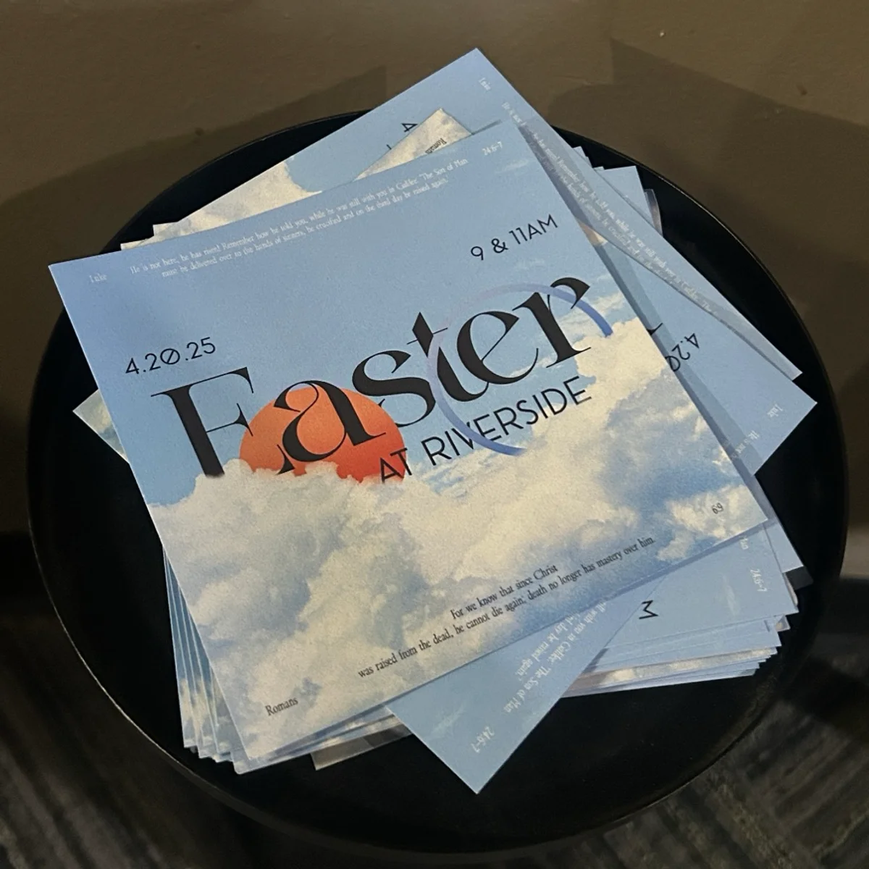
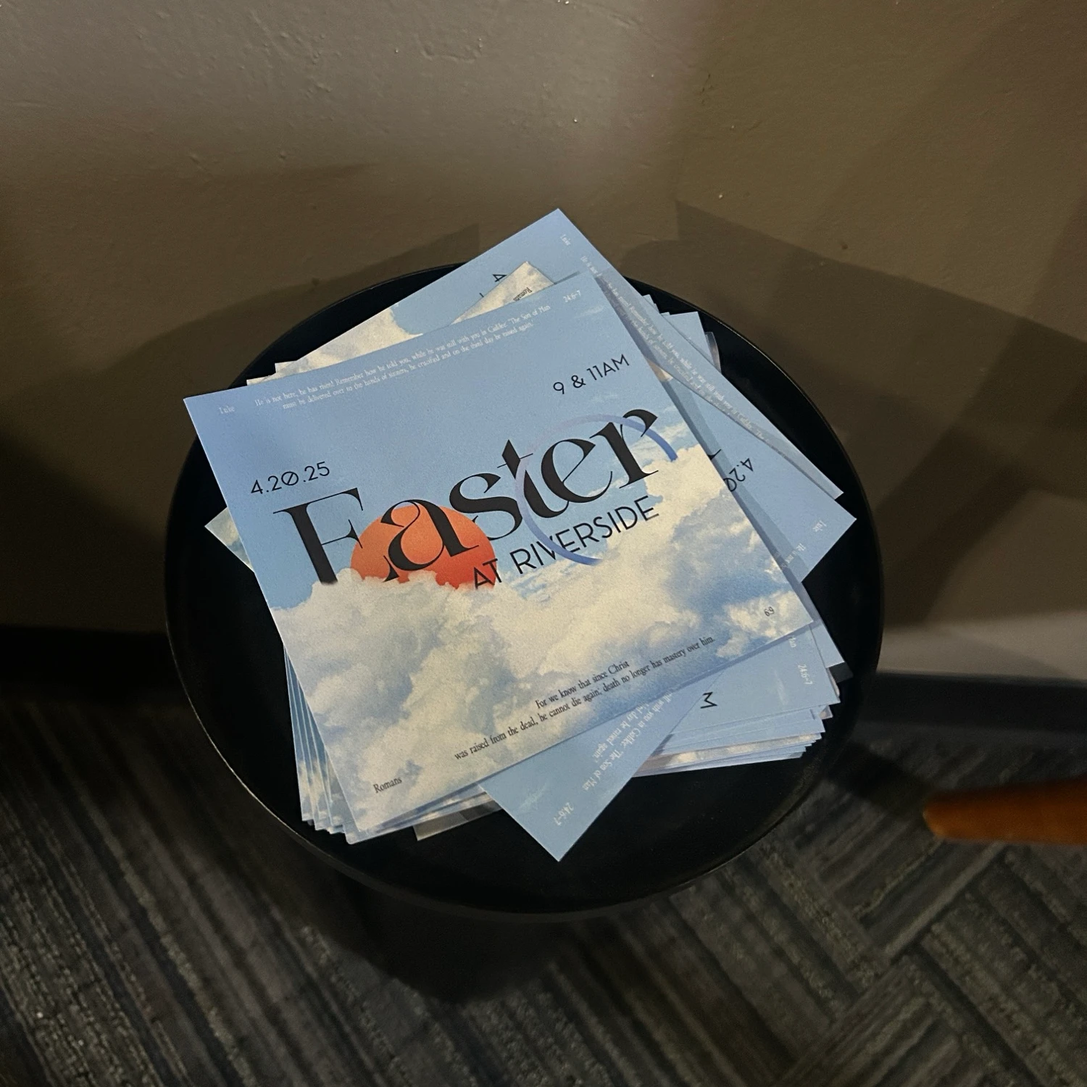
Fuse strip swapped; Oasis film larger; Easter cards zoomed out at native pixels; Sandcastles stacked on the right
Fuse: banner left, laptop photo right (CSS order). Oasis: film 813x457 beside a 391px write-up. Easter: invite cards re-cropped wider from the 1500px original, no resampling. Sandcastles: write-up split into seven paragraphs on the left, spread to end level with the stack; bookmark uncropped and stage photo smaller on the right under the hero.

diff --git a/i18n.js b/i18n.js
@@ -198,7 +198,7 @@
       'proj.sandcastles.desc': 'Sermon series identity applied across stage screens, social, and print.',
       'proj.sandcastles.type': 'Sermon Series Identity',
       'proj.sandcastles.role': 'Graphic Designer',
-      'proj.sandcastles.body': "Sandcastles is the identity for a summer in the Psalms: all 150, ten a week for fifteen weeks. The brief arrived as just a couple of sentences for me to build off of.\n\nSandcastles is a word about kids at a beach, and the Psalms are not light reading. The job was a playfulness that still held the weight: a sandcastle under a low sun, built on the one thing everybody knows the tide is coming for. It took many collage versions and more typefaces than I'd like to admit, narrowed as often by commercial licensing as by tone. The wordmark changed before it shipped: the creative director swapped the brush script for serif capitals.\n\nFrom there it had to hold everywhere it went: a stage screen above a full auditorium, thumbnails and social posts, printed posters and handouts, a bookmark two inches wide. How much each one says depends on how long anyone actually looks at it. On the screen it's the wordmark and not much else. On the bookmark, the one piece someone would open every day for three months, it's the whole fifteen-week schedule.",
+      'proj.sandcastles.body': "Sandcastles is the identity for a summer in the Psalms: all 150, ten a week for fifteen weeks.\n\nThe brief arrived as just a couple of sentences for me to build off of.\n\nSandcastles is a word about kids at a beach, and the Psalms are not light reading. The job was a playfulness that still held the weight: a sandcastle under a low sun, built on the one thing everybody knows the tide is coming for.\n\nIt took many collage versions and more typefaces than I'd like to admit, narrowed as often by commercial licensing as by tone. The wordmark changed before it shipped: the creative director swapped the brush script for serif capitals.\n\nFrom there it had to hold everywhere it went: a stage screen above a full auditorium, thumbnails and social posts, printed posters and handouts, a bookmark two inches wide.\n\nHow much each one says depends on how long anyone actually looks at it. On the screen it's the wordmark and not much else.\n\nOn the bookmark, the one piece someone would open every day for three months, it's the whole fifteen-week schedule.",
       'proj.sandcastles.alt.1': "The Sandcastles graphic: a sandcastle collage under an orange sun on teal, with 'Sandcastles' in a white brush script and three Psalms set around it.",
       'proj.sandcastles.alt.2': "The printed Summer Reading Plan bookmark, using the same artwork, resting in an open Bible beside a coffee mug and a candle.",
       'proj.sandcastles.alt.3': "The Sandcastles artwork on the church auditorium's main screen during a service, with the congregation seated in front of it.",
@@ -482,7 +482,7 @@
       'proj.sandcastles.desc': 'Identidad de serie aplicada a pantallas de escenario, redes e impresos.',
       'proj.sandcastles.type': 'Identidad de serie de sermones',
       'proj.sandcastles.role': 'Diseñador gráfico',
-      'proj.sandcastles.body': "Sandcastles es la identidad de un verano en los Salmos: los 150, diez por semana durante quince semanas. El encargo llegó como apenas un par de frases a partir de las cuales construir.\n\nSandcastles es una palabra de niños en la playa, y los Salmos no son lectura ligera. El trabajo era un juego que sostuviera el peso: un castillo de arena bajo un sol bajo, levantado sobre lo único que todos sabemos que la marea se va a llevar. Costó muchas versiones del collage y más tipografías de las que me gustaría reconocer, descartadas tanto por la licencia comercial como por el tono. El logotipo cambió antes de salir: el director creativo sustituyó la letra de pincel por mayúsculas serif.\n\nA partir de ahí tenía que aguantar allí donde fuera: una pantalla de escenario sobre un auditorio lleno, miniaturas y publicaciones en redes, carteles y folletos impresos, un marcapáginas de cinco centímetros. Cuánto dice cada uno depende del tiempo que alguien vaya a mirarlo. En pantalla es el logotipo y poco más. En el marcapáginas, lo único que alguien iba a abrir cada día durante tres meses, es el calendario entero de quince semanas.",
+      'proj.sandcastles.body': "Sandcastles es la identidad de un verano en los Salmos: los 150, diez por semana durante quince semanas.\n\nEl encargo llegó como apenas un par de frases a partir de las cuales construir.\n\nSandcastles es una palabra de niños en la playa, y los Salmos no son lectura ligera. El trabajo era un juego que sostuviera el peso: un castillo de arena bajo un sol bajo, levantado sobre lo único que todos sabemos que la marea se va a llevar.\n\nCostó muchas versiones del collage y más tipografías de las que me gustaría reconocer, descartadas tanto por la licencia comercial como por el tono. El logotipo cambió antes de salir: el director creativo sustituyó la letra de pincel por mayúsculas serif.\n\nA partir de ahí tenía que aguantar allí donde fuera: una pantalla de escenario sobre un auditorio lleno, miniaturas y publicaciones en redes, carteles y folletos impresos, un marcapáginas de cinco centímetros.\n\nCuánto dice cada uno depende del tiempo que alguien vaya a mirarlo. En pantalla es el logotipo y poco más.\n\nEn el marcapáginas, lo único que alguien iba a abrir cada día durante tres meses, es el calendario entero de quince semanas.",
       'proj.sandcastles.alt.1': 'La gráfica de Sandcastles: un collage de castillo de arena bajo un sol naranja sobre turquesa, con «Sandcastles» en letra de pincel blanca y tres Salmos alrededor.',
       'proj.sandcastles.alt.2': 'El marcapáginas impreso del plan de lectura de verano, con la misma obra, sobre una Biblia abierta junto a una taza de café y una vela.',
       'proj.sandcastles.alt.3': 'La obra de Sandcastles en la pantalla principal del auditorio de la iglesia durante un servicio, con la congregación sentada delante.',
@@ -764,7 +764,7 @@
       'proj.sandcastles.desc': '舞台スクリーン、SNS、印刷物に展開したシリーズのアイデンティティ。',
       'proj.sandcastles.type': '説教シリーズのアイデンティティ',
       'proj.sandcastles.role': 'グラフィックデザイナー',
-      'proj.sandcastles.body': 'Sandcastlesは、詩篇で過ごす夏のためのアイデンティティです。150篇すべてを、週に10篇ずつ、15週で読みます。依頼は、そこから組み立てるための数行の文章として届いただけでした。\n\nSandcastlesは浜辺の子どもの言葉で、詩篇は軽い読みものではありません。必要だったのは、重さを支えられる遊び心でした。低い陽のもとの砂の城を、潮が必ず連れていくと誰もが知っているものの上に立てています。コラージュは何度も作り直し、書体も認めたくないほど試しました。調子の合う合わないと同じくらい、商用ライセンスの有無でふるいにかけながら。ロゴタイプは世に出る前に変わりました。クリエイティブディレクターが、ブラシスクリプトをセリフ体の大文字に差し替えています。\n\nそこから先は、置かれる先すべてで成立する必要がありました。満席の会堂を見下ろす舞台スクリーン、サムネイルやSNSの投稿、印刷されたポスターや配布物、幅5センチのしおり。それぞれがどれだけ語るかは、実際にどれだけの時間見てもらえるかで決まります。スクリーンではロゴタイプとわずかな要素だけ。三か月のあいだ毎日開かれる唯一のものであるしおりには、15週分の予定がすべて入っています。',
+      'proj.sandcastles.body': 'Sandcastlesは、詩篇で過ごす夏のためのアイデンティティです。150篇すべてを、週に10篇ずつ、15週で読みます。\n\n依頼は、そこから組み立てるための数行の文章として届いただけでした。\n\nSandcastlesは浜辺の子どもの言葉で、詩篇は軽い読みものではありません。必要だったのは、重さを支えられる遊び心でした。低い陽のもとの砂の城を、潮が必ず連れていくと誰もが知っているものの上に立てています。\n\nコラージュは何度も作り直し、書体も認めたくないほど試しました。調子の合う合わないと同じくらい、商用ライセンスの有無でふるいにかけながら。ロゴタイプは世に出る前に変わりました。クリエイティブディレクターが、ブラシスクリプトをセリフ体の大文字に差し替えています。\n\nそこから先は、置かれる先すべてで成立する必要がありました。満席の会堂を見下ろす舞台スクリーン、サムネイルやSNSの投稿、印刷されたポスターや配布物、幅5センチのしおり。\n\nそれぞれがどれだけ語るかは、実際にどれだけの時間見てもらえるかで決まります。スクリーンではロゴタイプとわずかな要素だけ。\n\n三か月のあいだ毎日開かれる唯一のものであるしおりには、15週分の予定がすべて入っています。',
       'proj.sandcastles.alt.1': 'Sandcastlesのグラフィック。ティール地にオレンジの太陽と砂の城のコラージュ、白いブラシスクリプトの「Sandcastles」と、その周囲に配置された三つの詩篇。',
       'proj.sandcastles.alt.2': '同じアートワークを使った夏の読書プランのしおり。開いた聖書の上に置かれ、傍らにコーヒーカップとキャンドルがある。',
       'proj.sandcastles.alt.3': '礼拝中、教会の会堂のメインスクリーンに映し出されたSandcastlesのアートワークと、その前に座る会衆。',
@@ -1046,7 +1046,7 @@
       'proj.sandcastles.desc': 'Identità di serie applicata a schermi da palco, social e stampa.',
       'proj.sandcastles.type': 'Identità per serie di sermoni',
       'proj.sandcastles.role': 'Graphic designer',
-      'proj.sandcastles.body': "Sandcastles \u00E8 l\u2019identit\u00E0 di un\u2019estate nei Salmi: tutti e 150, dieci a settimana per quindici settimane. Il brief \u00E8 arrivato come un paio di frasi appena, da cui partire.\n\nSandcastles \u00E8 una parola da bambini in spiaggia, e i Salmi non sono una lettura leggera. Serviva una leggerezza che reggesse il peso: un castello di sabbia sotto un sole basso, costruito sull\u2019unica cosa che tutti sanno che la marea si porter\u00E0 via. Sono servite molte versioni del collage e pi\u00F9 caratteri di quanti mi vada di ammettere, scartati tanto per la licenza commerciale quanto per il tono. Il logotipo \u00E8 cambiato prima di uscire: il direttore creativo ha sostituito lo script a pennello con maiuscole serif.\n\nDa l\u00EC doveva reggere ovunque finisse: uno schermo da palco sopra un auditorium pieno, miniature e post social, manifesti e volantini stampati, un segnalibro largo cinque centimetri. Quanto dice ciascuno dipende da quanto tempo qualcuno ci passa davvero. Sullo schermo c\u2019\u00E8 il logotipo e poco altro. Sul segnalibro, l\u2019unico pezzo che qualcuno avrebbe aperto ogni giorno per tre mesi, c\u2019\u00E8 tutto il calendario di quindici settimane.",
+      'proj.sandcastles.body': "Sandcastles \u00E8 l\u2019identit\u00E0 di un\u2019estate nei Salmi: tutti e 150, dieci a settimana per quindici settimane.\n\nIl brief \u00E8 arrivato come un paio di frasi appena, da cui partire.\n\nSandcastles \u00E8 una parola da bambini in spiaggia, e i Salmi non sono una lettura leggera. Serviva una leggerezza che reggesse il peso: un castello di sabbia sotto un sole basso, costruito sull\u2019unica cosa che tutti sanno che la marea si porter\u00E0 via.\n\nSono servite molte versioni del collage e pi\u00F9 caratteri di quanti mi vada di ammettere, scartati tanto per la licenza commerciale quanto per il tono. Il logotipo \u00E8 cambiato prima di uscire: il direttore creativo ha sostituito lo script a pennello con maiuscole serif.\n\nDa l\u00EC doveva reggere ovunque finisse: uno schermo da palco sopra un auditorium pieno, miniature e post social, manifesti e volantini stampati, un segnalibro largo cinque centimetri.\n\nQuanto dice ciascuno dipende da quanto tempo qualcuno ci passa davvero. Sullo schermo c\u2019\u00E8 il logotipo e poco altro.\n\nSul segnalibro, l\u2019unico pezzo che qualcuno avrebbe aperto ogni giorno per tre mesi, c\u2019\u00E8 tutto il calendario di quindici settimane.",
       'proj.sandcastles.alt.1': 'La grafica di Sandcastles: un collage con castello di sabbia sotto un sole arancione su fondo turchese, con \u201CSandcastles\u201D in uno script a pennello bianco e tre Salmi disposti intorno.',
       'proj.sandcastles.alt.2': 'Il segnalibro stampato del piano di lettura estivo, con lo stesso artwork, appoggiato su una Bibbia aperta accanto a una tazza di caffè e una candela.',
       'proj.sandcastles.alt.3': 'L\u2019artwork di Sandcastles sullo schermo principale dell\u2019auditorium della chiesa durante un servizio, con l\u2019assemblea seduta davanti.',

diff --git a/index.html b/index.html
@@ -176,7 +176,7 @@
           "@type": "CreativeWork",
           "name": "Sandcastles",
           "about": "Sermon series identity applied across stage screens, social and print.",
-          "description": "Sandcastles is the identity for a summer in the Psalms: all 150, ten a week for fifteen weeks. The brief arrived as just a couple of sentences for me to build off of.\n\nSandcastles is a word about kids at a beach, and the Psalms are not light reading. The job was a playfulness that still held the weight: a sandcastle under a low sun, built on the one thing everybody knows the tide is coming for. It took many collage versions and more typefaces than I'd like to admit, narrowed as often by commercial licensing as by tone. The wordmark changed before it shipped: the creative director swapped the brush script for serif capitals.\n\nFrom there it had to hold everywhere it went: a stage screen above a full auditorium, thumbnails and social posts, printed posters and handouts, a bookmark two inches wide. How much each one says depends on how long anyone actually looks at it. On the screen it's the wordmark and not much else. On the bookmark, the one piece someone would open every day for three months, it's the whole fifteen-week schedule.",
+          "description": "Sandcastles is the identity for a summer in the Psalms: all 150, ten a week for fifteen weeks.\n\nThe brief arrived as just a couple of sentences for me to build off of.\n\nSandcastles is a word about kids at a beach, and the Psalms are not light reading. The job was a playfulness that still held the weight: a sandcastle under a low sun, built on the one thing everybody knows the tide is coming for.\n\nIt took many collage versions and more typefaces than I'd like to admit, narrowed as often by commercial licensing as by tone. The wordmark changed before it shipped: the creative director swapped the brush script for serif capitals.\n\nFrom there it had to hold everywhere it went: a stage screen above a full auditorium, thumbnails and social posts, printed posters and handouts, a bookmark two inches wide.\n\nHow much each one says depends on how long anyone actually looks at it. On the screen it's the wordmark and not much else.\n\nOn the bookmark, the one piece someone would open every day for three months, it's the whole fifteen-week schedule.",
           "creator": {
             "@id": "https://jackmurraydesign.com/#jack"
           },
@@ -594,9 +594,13 @@
           <span class="gallery-fallback-title">SANDCASTLES</span>
           <span class="gallery-fallback-desc">Sermon series identity applied across stage screens, social, and print.</span>
         </a>
-        <p class="gallery-fallback-body">Sandcastles is the identity for a summer in the Psalms: all 150, ten a week for fifteen weeks. The brief arrived as just a couple of sentences for me to build off of.</p>
-        <p class="gallery-fallback-body">Sandcastles is a word about kids at a beach, and the Psalms are not light reading. The job was a playfulness that still held the weight: a sandcastle under a low sun, built on the one thing everybody knows the tide is coming for. It took many collage versions and more typefaces than I'd like to admit, narrowed as often by commercial licensing as by tone. The wordmark changed before it shipped: the creative director swapped the brush script for serif capitals.</p>
-        <p class="gallery-fallback-body">From there it had to hold everywhere it went: a stage screen above a full auditorium, thumbnails and social posts, printed posters and handouts, a bookmark two inches wide. How much each one says depends on how long anyone actually looks at it. On the screen it's the wordmark and not much else. On the bookmark, the one piece someone would open every day for three months, it's the whole fifteen-week schedule.</p>
+        <p class="gallery-fallback-body">Sandcastles is the identity for a summer in the Psalms: all 150, ten a week for fifteen weeks.</p>
+        <p class="gallery-fallback-body">The brief arrived as just a couple of sentences for me to build off of.</p>
+        <p class="gallery-fallback-body">Sandcastles is a word about kids at a beach, and the Psalms are not light reading. The job was a playfulness that still held the weight: a sandcastle under a low sun, built on the one thing everybody knows the tide is coming for.</p>
+        <p class="gallery-fallback-body">It took many collage versions and more typefaces than I'd like to admit, narrowed as often by commercial licensing as by tone. The wordmark changed before it shipped: the creative director swapped the brush script for serif capitals.</p>
+        <p class="gallery-fallback-body">From there it had to hold everywhere it went: a stage screen above a full auditorium, thumbnails and social posts, printed posters and handouts, a bookmark two inches wide.</p>
+        <p class="gallery-fallback-body">How much each one says depends on how long anyone actually looks at it. On the screen it's the wordmark and not much else.</p>
+        <p class="gallery-fallback-body">On the bookmark, the one piece someone would open every day for three months, it's the whole fifteen-week schedule.</p>
       </li>
       <li>
         <a href="/work/monmouth-retreat">

diff --git a/styles.css b/styles.css
@@ -2839,6 +2839,7 @@ body.is-loading { overflow: hidden; }
 
 /* stills under the player — sized by height so each keeps its own ratio and
    nothing is cropped; a portrait poster stays a portrait poster */
+.project-video-details > div:last-child { order: -1; }   /* the standup banner leads, the laptop photo follows on the right */
 .project-video-details {
   display: flex;
   flex-wrap: wrap;
@@ -3126,6 +3127,14 @@ body.is-loading { overflow: hidden; }
   /* ASIDE (Easter): one photo beside the write-up, in columns 8-12 (496px at
      the full shell, square), top level with the first line of the text; the
      remaining two sit full width underneath at their own native ratios */
+  /* STACK (Sandcastles): the bookmark (whole) and the stage photo (smaller, its own ratio)
+     stack on the right under the hero, flush right; the write-up runs down the
+     left beside them, its paragraphs spread so it ends level with the last photo */
+  .project-detail.has-stack .project-mixed-stack { grid-column: 6 / -1; grid-row: 7; margin-top: 56px; display: flex; flex-direction: column; align-items: flex-end; gap: 32px; }
+  .project-detail.has-stack .project-mixed-stack > div.is-bookmark { width: 70%; }
+  .project-detail.has-stack .project-mixed-stack > div.is-stage { width: 55%; }
+  .project-detail.has-stack .project-body-copy { grid-column: 1 / 6; margin: 56px 0 0; align-self: stretch; display: flex; flex-direction: column; justify-content: space-between; gap: 28px; }
+  .project-detail.has-stack .project-body-copy p { margin: 0; }
   .project-detail.has-aside .project-mixed-aside { grid-column: 8 / -1; grid-row: 7; margin-top: 56px; }
   .project-detail.has-aside .project-body-copy { grid-column: 1 / 8; }
 
@@ -3134,12 +3143,12 @@ body.is-loading { overflow: hidden; }
   .project-detail.is-intro-film .project-body-copy { grid-column: 1 / 8; grid-row: 8; margin-top: 56px; }
   .project-detail.is-intro-film .project-video-details { grid-column: 1 / -1; grid-row: 9; margin-top: 56px; }
   /* FILM SIDE (Oasis): the film is smaller and sits on the right (columns
-     6-12, 708px wide at the full shell) with the write-up tight beside it on
-     the left (columns 1-5), both in ONE row straight under the masthead, so
+     5-12, 820px wide at the full shell) with the write-up tight beside it on
+     the left (columns 1-4, 391px), both in ONE row straight under the masthead, so
      the text starts to show as soon as the page opens and can be read while
      the film plays */
-  .project-detail.is-film-side .project-video-frame { grid-column: 6 / -1; grid-row: 7; margin-top: 40px; }
-  .project-detail.is-film-side .project-body-copy { grid-column: 1 / 6; grid-row: 7; margin-top: 40px; }
+  .project-detail.is-film-side .project-video-frame { grid-column: 5 / -1; grid-row: 7; margin-top: 40px; }   /* 8 columns: 820 x 461 at the full shell */
+  .project-detail.is-intro-film.is-film-side .project-body-copy { grid-column: 1 / 5; grid-row: 7; margin-top: 40px; }    /* 4 columns: 391px, tight and tall */
 
 
   /* ---- columns: two stacks that progress on their own ---- */
@@ -3191,6 +3200,9 @@ body.is-loading { overflow: hidden; }
   .project-detail:not(.is-case) .project-video-frame { order: 6; margin-top: 40px; }
   .project-detail:not(.is-case) .project-body-copy { order: 7; margin: 40px 0 0; }
   .project-detail:not(.is-case) .project-mixed-aside { order: 8; margin-top: 40px; }
+  .project-detail.has-stack .project-mixed-stack { order: 8; margin-top: 40px; align-items: stretch; }
+  .project-detail.has-stack .project-mixed-stack > div.is-bookmark,
+  .project-detail.has-stack .project-mixed-stack > div.is-stage { width: 100%; }
   .project-detail:not(.is-case) .project-mixed-details,
   .project-detail:not(.is-case) .project-video-details,
   .project-detail:not(.is-case) .masonry-section { order: 9; margin-top: 14px; }
@@ -3253,6 +3265,8 @@ body.is-loading { overflow: hidden; }
   aspect-ratio: 1;
 }
 .project-mixed-details svg { width: 100%; height: 100%; display: block; }
+.project-mixed-stack > div { border: 3px solid var(--black); overflow: hidden; aspect-ratio: var(--ar); }
+.project-mixed-stack img { width: 100%; height: 100%; display: block; object-fit: cover; }
 .project-mixed-aside { border: 3px solid var(--black); overflow: hidden; aspect-ratio: 1; }
 .project-mixed-aside img { width: 100%; height: 100%; display: block; object-fit: cover; }
 /* with an aside the bottom pair is levelled at the photographs' OWN ratios:

diff --git a/script.js b/script.js
@@ -703,7 +703,7 @@ const projectData = {
         full: '/assets/projects/easter-riverside/02-photo-wall-full.jpg' , exif: '50mm · f/2.8 · 1/2500 s · ISO 2500' },
       /* aside: the cards on the small table sit to the RIGHT of the write-up
          (re-cropped 1:1 from the original so the stack fills the frame) */
-      { src: '/assets/projects/easter-riverside/04-invite-cards.jpg?v=00c50b5a', w: 1200, h: 1200, aside: true,
+      { src: '/assets/projects/easter-riverside/04-invite-cards.jpg?v=5eaa458d', w: 1500, h: 1500, aside: true,
         full: '/assets/projects/easter-riverside/04-invite-cards-full.jpg' , exif: '26mm · f/1.5 · 1/60 s · ISO 400' }
     ]
   },
@@ -777,9 +777,12 @@ const projectData = {
     // state while the copy claims iteration, so it was promising something it
     // didn't deliver.
     detailImages: [
-      { src: '/assets/projects/sandcastles/05-reading-plan.jpg', w: 1100, h: 1100,
+      // `stack`: both sit in a column on the RIGHT under the hero, the bookmark
+      // whole and uncropped, the stage photo smaller at its own ratio, with the
+      // write-up running down the left beside them
+      { src: '/assets/projects/sandcastles/05-reading-plan-whole.jpg?v=4acbefad', w: 1146, h: 1192, stack: 'is-bookmark',
         full: '/assets/projects/sandcastles/05-reading-plan-full.jpg' },
-      { src: '/assets/projects/sandcastles/03-stage.jpg?v=8611f06f', w: 1800, h: 1006,
+      { src: '/assets/projects/sandcastles/03-stage.jpg?v=8611f06f', w: 1800, h: 1006, stack: 'is-stage',
         full: '/assets/projects/sandcastles/03-stage-full.jpg' }
     ]
   },
@@ -1620,6 +1623,7 @@ function renderProjectMedia(data) {
     projectDetailEl.classList.toggle(INTRO_CLASS[v], data.intro === v));
   projectDetailEl.classList.toggle('is-video', data.layout === 'video');
   projectDetailEl.classList.toggle('is-film-side', !!data.filmSide);
+  projectDetailEl.classList.toggle('has-stack', !!(data.detailImages || []).some((e) => e && e.stack));
   projectDetailEl.classList.toggle('has-aside', !!(data.detailImages || []).some((e) => e && e.aside));
   // the whole page, built from `caseStudy`. Hides .project-media and
   // .project-body, so this returns before any of the layouts below.
@@ -1794,11 +1798,13 @@ function renderProjectMedia(data) {
   if (data.layout === 'mixed') {
     projectMedia.innerHTML = `
       <div class="project-mixed-hero"${data.heroRatio ? ` style="--hero-ratio: ${escapeAttr(data.heroRatio)}"` : ''}>${mediaTag(data.hero || data.heroSvg, data.id, 0, data.title)}</div>
+      ${(data.detailImages || []).some((e) => e && e.stack) ? `<div class="project-mixed-stack">${(data.detailImages || []).map((entry, i) => entry && entry.stack
+        ? `<div class="${entry.stack}" style="--ar: ${entry.w} / ${entry.h}">${mediaTag(entry, data.id, i + 1, data.title)}</div>` : '').join('')}</div>` : ''}
       ${(data.detailImages || []).map((entry, i) => entry && entry.aside
         ? `<div class="project-mixed-aside">${mediaTag(entry, data.id, i + 1, data.title)}</div>` : '').join('')}
       <div class="project-mixed-details">
         ${(data.detailImages || []).map((entry, i) => {
-          if (entry && entry.aside) return '';
+          if (entry && (entry.aside || entry.stack)) return '';
           // Width comes from the photo's own orientation. In equal square
           // boxes a portrait shot loses far more to the cover crop than a
           // landscape one, so give portraits a narrower box and landscapes

diff --git a/CLAUDE.md b/CLAUDE.md
@@ -4856,3 +4856,5 @@ fonts about 45KB.
 - **Easter (`aside: true` on an entry -> `.has-aside`):** the invite cards photo (re-cropped 1:1, 1200px) sits in columns 8-12 beside the write-up (496px square); the other two sit full width at their native ratios (flex-grow = aspect-ratio, 4:3 and 2:3), 814 x 615 and 410 x 615 at 1440, no crop. Banner re-exported at 1600 and the wall at 1000 wide.
 - **Fuse hero:** re-exported from the 2048 x 1536 original (`03-museum-room-hi`, 1800 x 1350, 2.5x at 708px). The old 1013px file is what held it at 5 columns (`is-lead-small`); it now takes the default 7.
 - **Pot Clip drag label** is `--accent-ink` (4.71 / 5.16), the small-text coral.
+
+**Third batch, 2026-11-24:** Fuse's strip puts the standup banner on the LEFT and the laptop photo on the right (`.project-video-details > div:last-child { order: -1 }`, so the data order and alt-text positions are untouched). Oasis's film is 8 columns (813 x 457 at 1440) with the write-up in the 4 columns beside it (391px); that rule is `.is-intro-film.is-film-side` because Fuse's own `.is-intro-film .project-body-copy` is later in the file at the same weight. Easter's cards photo is a 1500px square taken from the full original, native pixels (3x at 496px). **Sandcastles (`stack` on its two detail entries -> `.has-stack`):** text in columns 1-5 split into seven paragraphs (all four languages) and spread with `justify-content: space-between` so it ends level with the last photo (both bottoms at 1377 at 1440); the bookmark whole and uncropped (1146 x 1192, 70% of the 708 column) and the stage photo smaller at its own ratio (55%) stack on the right under the hero. The base `.project-body-copy` has a 40px bottom margin, so a stretched copy needs `margin-bottom: 0` or it ends 40px short.
